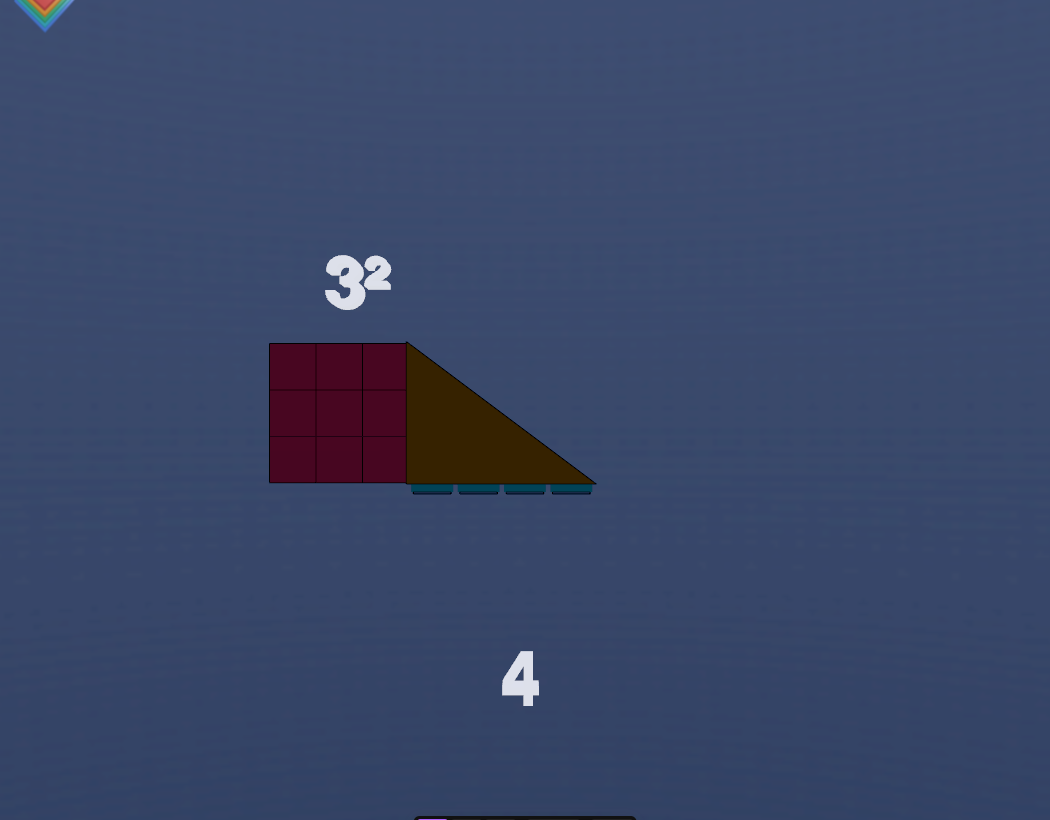
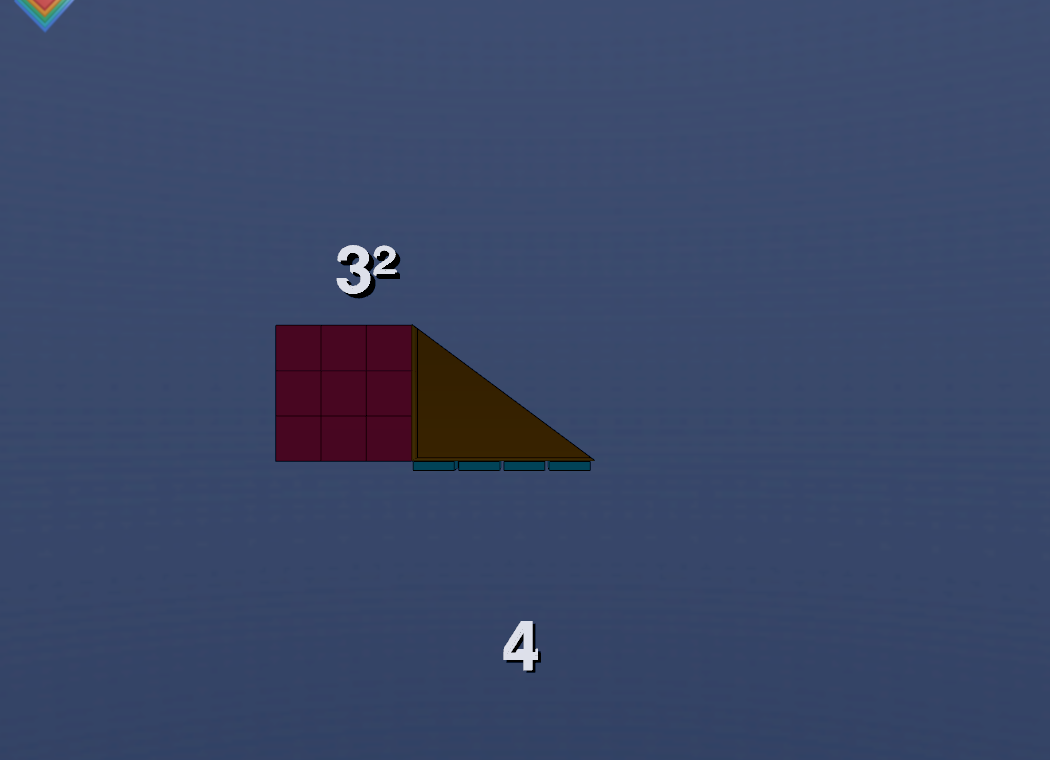
Tutorial: refresh screenshots (cubes, shadows), add the a/b/c sides figure, nudge b; note the scrub fix

diff --git a/docs/about/tutorials/makeshort.html b/docs/about/tutorials/makeshort.html
@@ -328,7 +328,7 @@ function makeSide(name, x, y) {
   editor.execute(new AddObjectCommand(editor, label));
 }
 makeSide('sideA', -0.7, 0.9);    // left of the vertical leg
-makeSide('sideB', 2.3, -1.3);    // under the horizontal leg
+makeSide('sideB', 2.3, -1.2);    // under the horizontal leg
 makeSide('sideC', 2.8, 1.45);     // just off the hypotenuse
 $S('#sideA, #sideB, #sideC').addClass('label');
 
@@ -341,6 +341,10 @@ $S('#sideC').at(63.2).change('c', { transition: 'fade', dur: 300 });   // as the
 $S('#sideA').at(64.5).change('', { transition: 'fade', dur: 300 });
 $S('#sideB').at(64.5).change('', { transition: 'fade', dur: 300 });
 $S('#sideC').at(64.5).change('', { transition: 'fade', dur: 300 });</code></pre>
+	<figure>
+		<img src="screenshots/pythagorean-sides.png" alt="The 3-4-5 triangle at 63.8 seconds with the letters a on the vertical leg, b under the horizontal leg and c beside the hypotenuse, over the tiles that fill the square on it, and the line a squared plus b squared equals c squared below. Every letter has a black drop shadow." loading="lazy">
+		<figcaption>63.8 seconds in: <em>a</em> and <em>b</em> name the legs, <em>c</em> the hypotenuse, above the theorem. The tiles are cubes now, and every white letter has a black drop shadow.</figcaption>
+	</figure>
 	<div class="note"><strong>A label per track.</strong> The two merging labels are faded out with one <code>$S</code> call each (not <code>$S('#three, #four')</code>), so each label keeps its own timeline track and the code panel reads label by label. Content is a step function: the text <em>is</em> whatever was keyed last; <code>transition: 'fade'</code> only cross-fades the swap (see <a href="../../../guides/ANIMATION.md">the animation guide</a>).</div>
 
 	<h2><span class="step">9</span> Two more triples, a quarter turn apart</h2>
@@ -536,7 +540,7 @@ $S('#PerspectiveCamera').at(97).animate({ to: { rotation: [0, 270, 0] } }, 2500)
 
 	<h2 id="open-finished"><span class="step">13</span> Open the finished scene</h2>
 	<p class="lede"><a href="../../#repo=tejaswigowda/test1&amp;file=pyth.json&amp;branch=main">pyth.json</a> in <code>tejaswigowda/test1</code> is the scene these blocks build: 50 tiles in 12 lines, the triangle, the three labels (and the a, b, c side names), the camera, the background and the call card, plus the two extra triples (458 more tiles, their landing cells and captions), with 25 timeline tracks (the three side names add one each), the same 100.5-second clock and 24 subtitle cues. Open it, then scrub the Animations tab: at 24&nbsp;s the 3×3 has unfolded, at 43&nbsp;s all 25 tiles sit on the pad, at 78&nbsp;s the 5-12-13 sum is on screen, at 94&nbsp;s the 8-15-17 one, and from 100&nbsp;s the card fills the frame.</p>
-	<div class="note"><strong>What was checked, and what differs.</strong> Every block on this page was pasted, one paste at a time, into an empty scene, with the three Text stencils, the Call card stencil and <strong>+ Add Shot</strong> clicked where the text says so. The result was compared with <code>pyth.json</code>: the same timeline tracks with the same events at the same times (22 of them before the a, b, c side names were added), the same subtitle cues word for word (23 then), and a frame at each of twelve times from 0 to 98&nbsp;s, chosen away from the flights, that differs from the published one by under 3% of its pixels. The tumbles themselves are not compared pixel for pixel: each tile's flight is a fixed function of its place in the list, and the published file lists its first triple's tiles in a different order, so the same tiles tumble differently there. The final end-card frame (100&nbsp;s) is the exception: the card is re-baked from the live <a href="../callcard/">/about/callcard</a> page every time a scene loads, so it was not compared pixel for pixel. (An older saved copy of this scene stored the card's material as opaque, and at full opacity that drew the QR as a blank white box; the editor now keeps the card blending on every load and render, whatever the saved scene says.) Three small differences are deliberate: the published file keeps its tiles at an offset inside their groups, so two of its <code>positionX</code>/<code>positionY</code> values read 9.4 and 4.4 where yours read 0.4 and −0.6 (the same place in the world); it nests the three labels in a <code>Labels</code> group, which nothing addresses; and its pad cells are numbered in a different order, with the same nine-and-sixteen split. The latest revisions, cube tiles, the label shadow and the a, b, c side names, were checked less thoroughly: the side-name and subtitle blocks were pasted from this page into the published scene, which then matched what was saved (25 tracks, 24 cues); the squares, triangle and triples blocks were pasted into an empty scene and build the same 50 and 458 tiles, now all cubes, and the published scene was played through once on a real GPU with no errors, but the frame comparison above predates it and the label-shadow lines were not re-pasted from this page. Rendering (step 12) was not re-run for this revision. The scene file is now about 4.8&nbsp;MB, nearly all of it baked animation, chiefly the flight paths of the 483 tiles that move; the editor rebuilds them from the timeline on load, so they are a cache, not something to edit.</div>
+	<div class="note"><strong>What was checked, and what differs.</strong> Every block on this page was pasted, one paste at a time, into an empty scene, with the three Text stencils, the Call card stencil and <strong>+ Add Shot</strong> clicked where the text says so. The result was compared with <code>pyth.json</code>: the same timeline tracks with the same events at the same times (22 of them before the a, b, c side names were added), the same subtitle cues word for word (23 then), and a frame at each of twelve times from 0 to 98&nbsp;s, chosen away from the flights, that differs from the published one by under 3% of its pixels. The tumbles themselves are not compared pixel for pixel: each tile's flight is a fixed function of its place in the list, and the published file lists its first triple's tiles in a different order, so the same tiles tumble differently there. The final end-card frame (100&nbsp;s) is the exception: the card is re-baked from the live <a href="../callcard/">/about/callcard</a> page every time a scene loads, so it was not compared pixel for pixel. (An older saved copy of this scene stored the card's material as opaque, and at full opacity that drew the QR as a blank white box; the editor now keeps the card blending on every load and render, whatever the saved scene says.) Three small differences are deliberate: the published file keeps its tiles at an offset inside their groups, so two of its <code>positionX</code>/<code>positionY</code> values read 9.4 and 4.4 where yours read 0.4 and −0.6 (the same place in the world); it nests the three labels in a <code>Labels</code> group, which nothing addresses; and its pad cells are numbered in a different order, with the same nine-and-sixteen split. The latest revisions, cube tiles, the label shadow and the a, b, c side names, were checked less thoroughly: the side-name and subtitle blocks were pasted from this page into the published scene, which then matched what was saved (25 tracks, 24 cues); the squares, triangle and triples blocks were pasted into an empty scene and build the same 50 and 458 tiles, now all cubes, and the published scene was played through once on a real GPU, and scrubbed back and forth across every label change, with no rendering errors (the editor used to free a label's old text geometry a frame after swapping it, which made the next draw of that label fail while scrubbing; it now frees it first), but the frame comparison above predates it and the label-shadow lines were not re-pasted from this page. Rendering (step 12) was not re-run for this revision. The scene file is now about 4.8&nbsp;MB, nearly all of it baked animation, chiefly the flight paths of the 483 tiles that move; the editor rebuilds them from the timeline on load, so they are a cache, not something to edit.</div>
 
 	<footer>
 		<a href="./">← All tutorials</a> · <a href="../">About</a>
